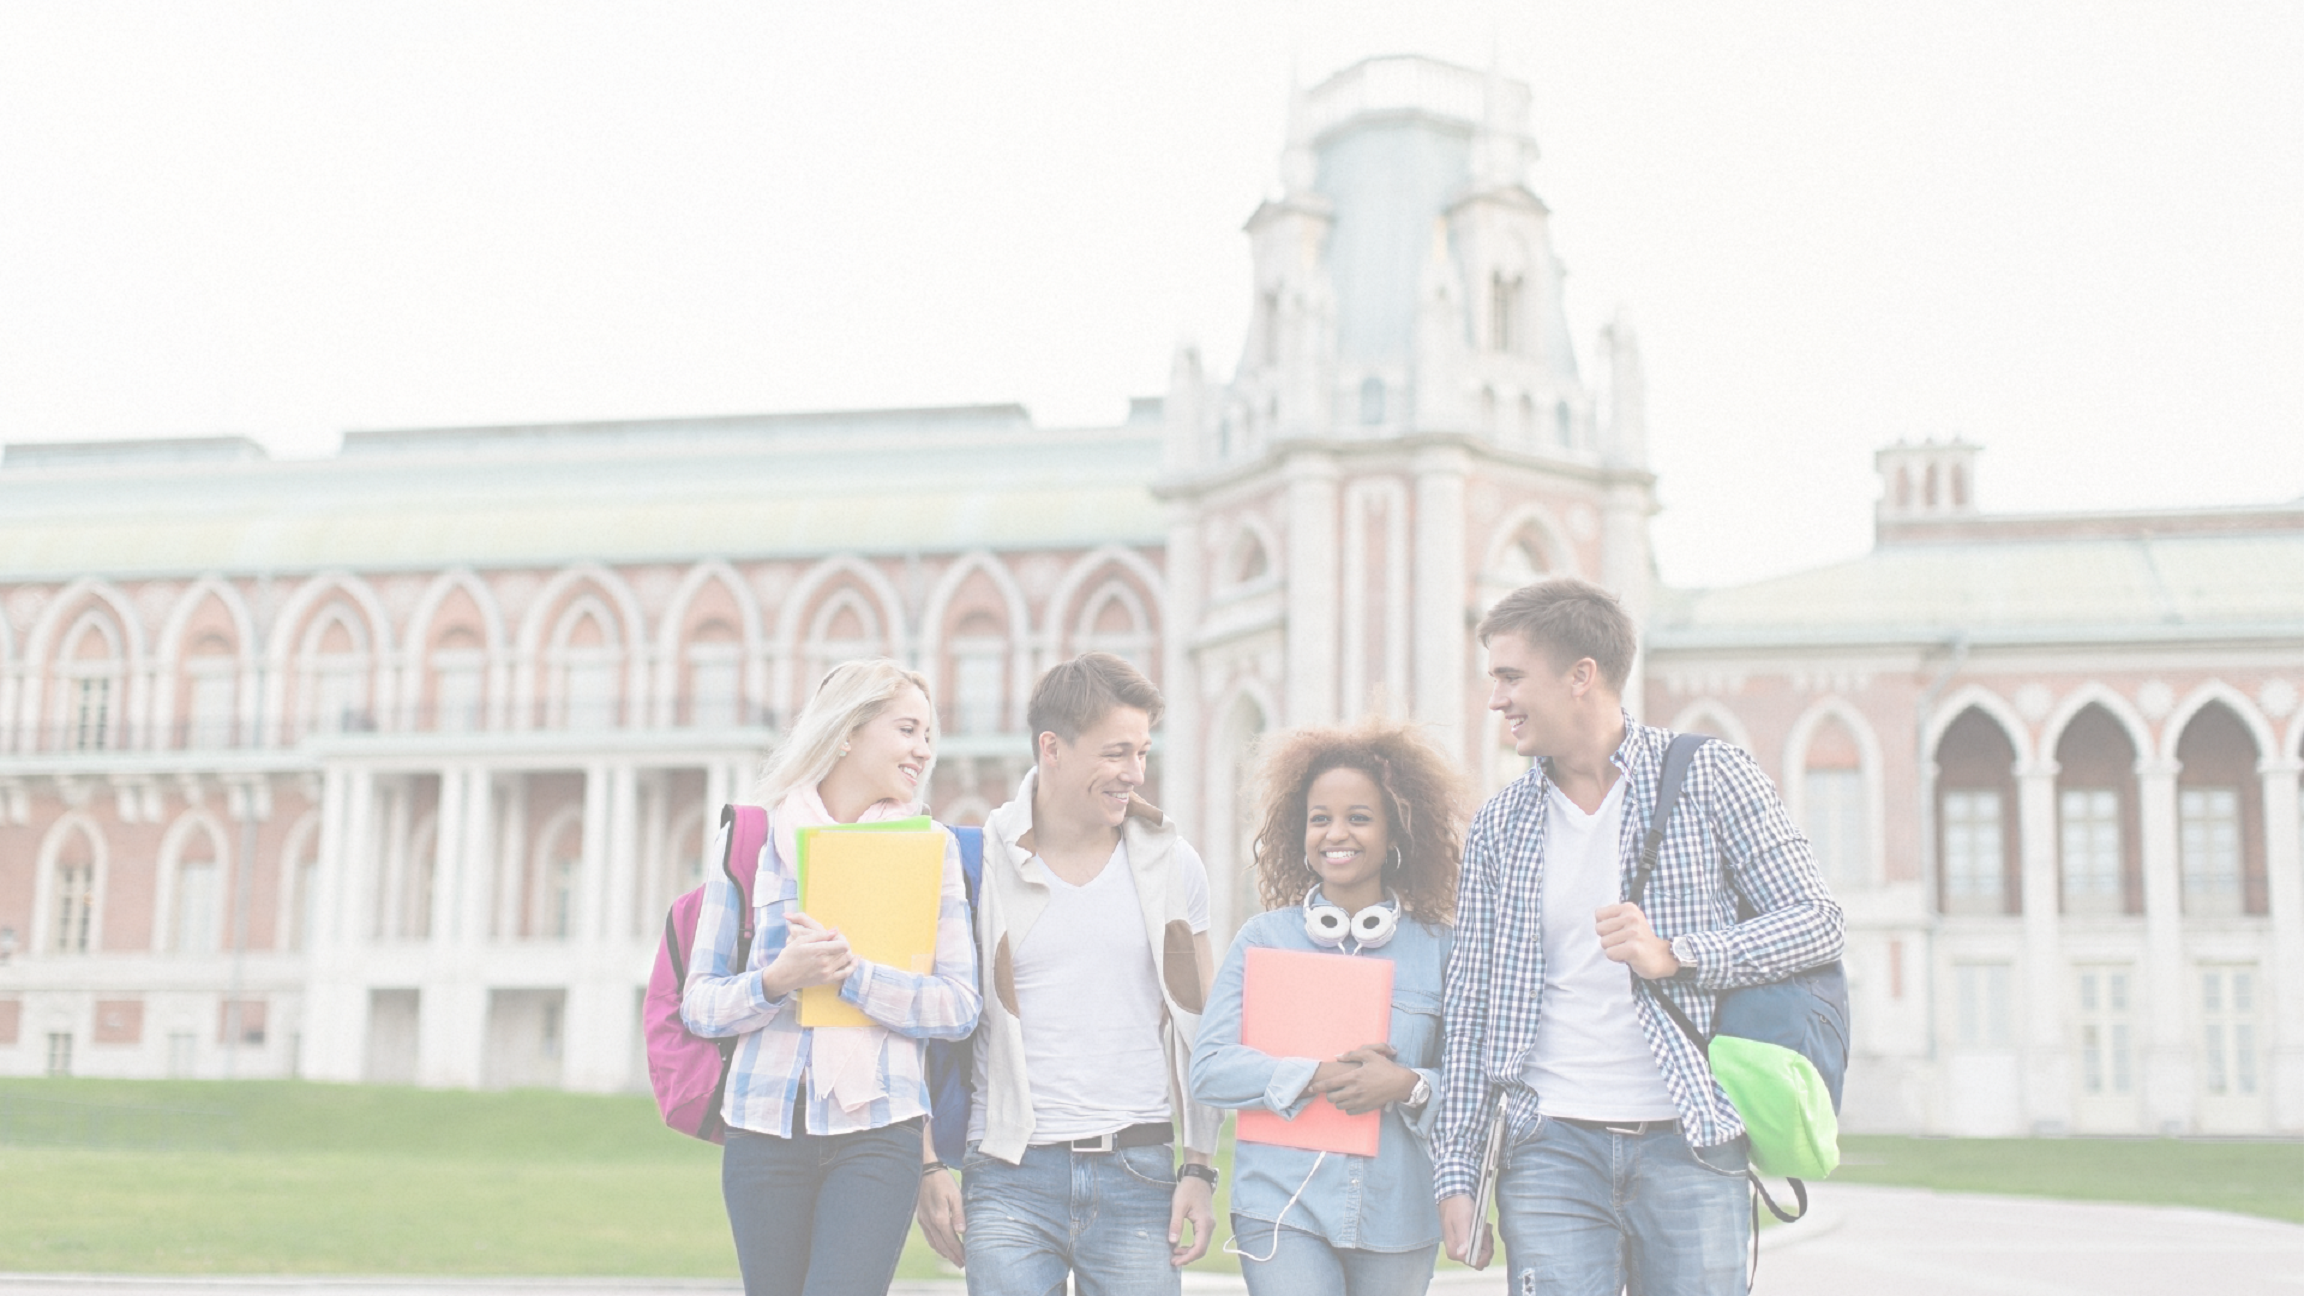
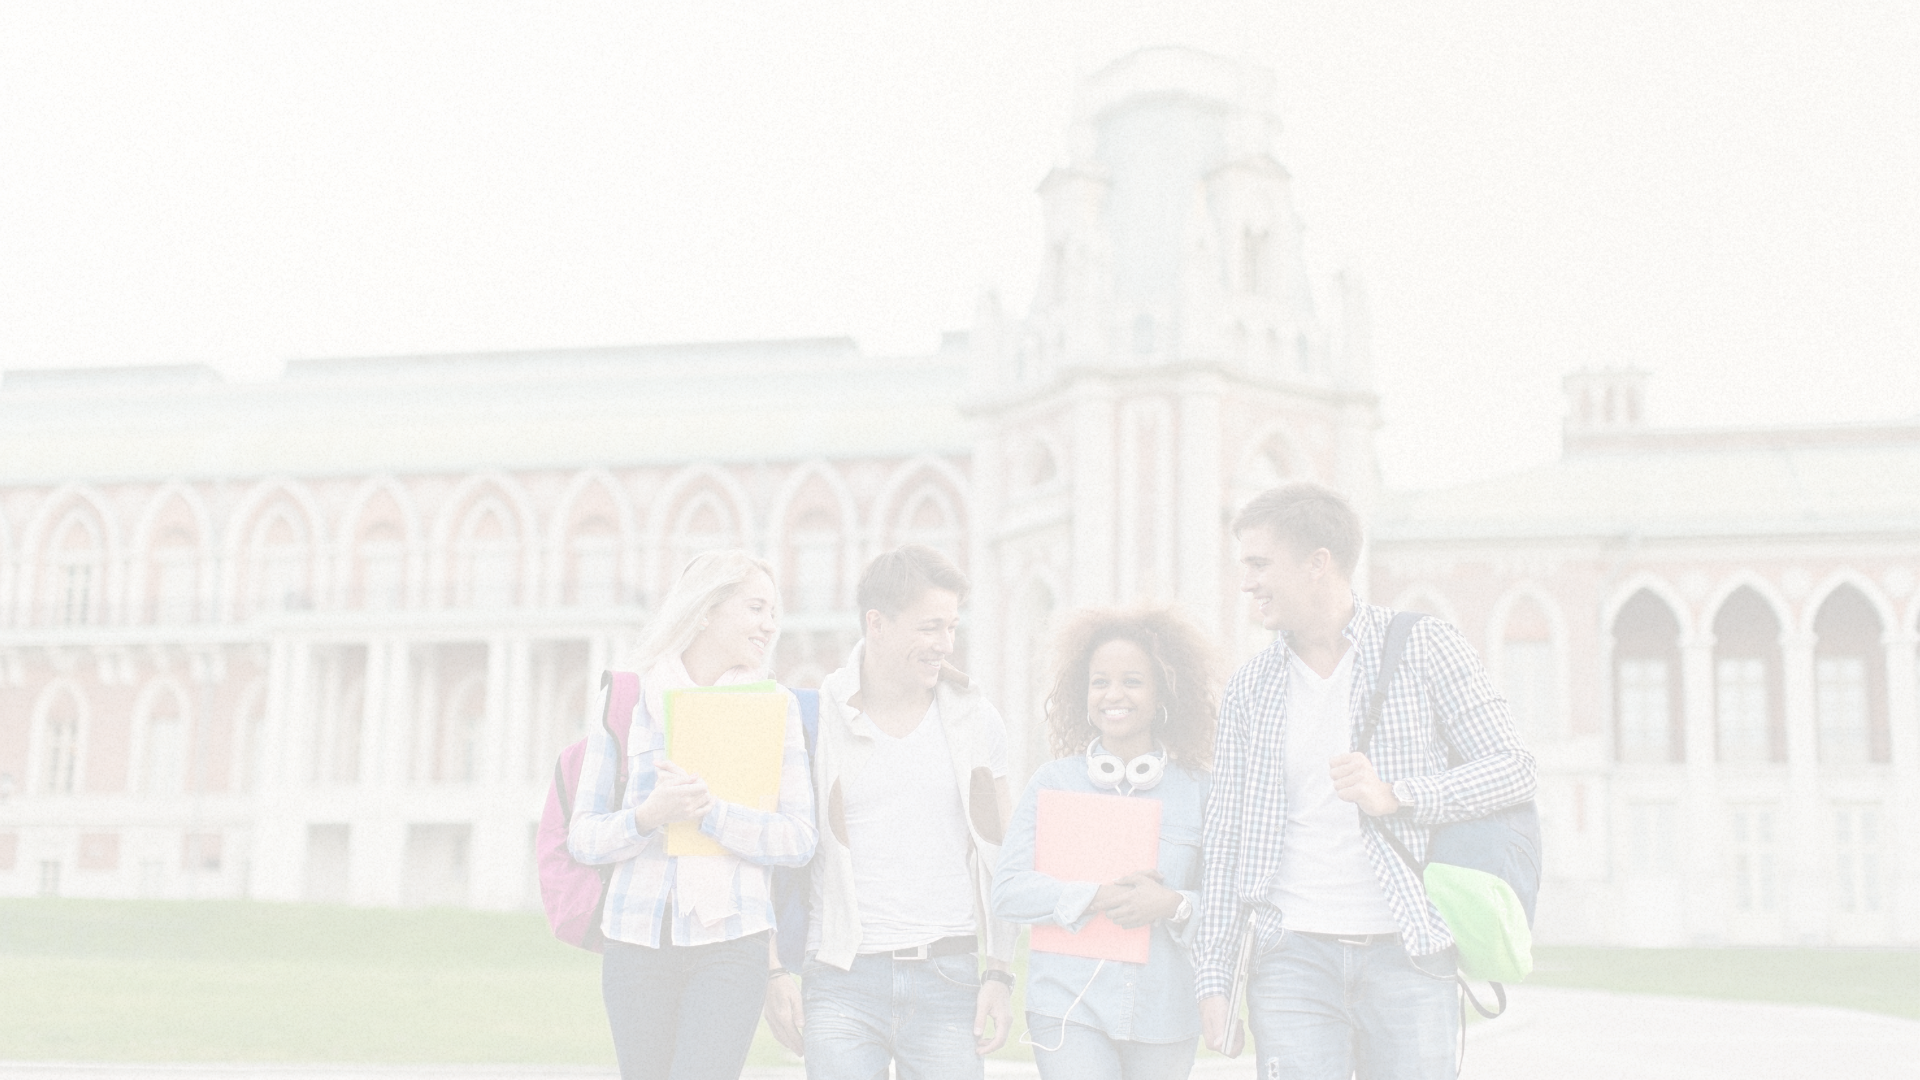
home page

diff --git a/index.html b/index.html
@@ -6,6 +6,7 @@
     <meta name="viewport" content="width=device-width, initial-scale=1.0">
     <link rel= stylesheet href= "css/style.css">
     <link href="https://fonts.googleapis.com/css2?family=Oswald&display=swap" rel="stylesheet">
+    <link rel="stylesheet" href="https://cdnjs.cloudflare.com/ajax/libs/font-awesome/6.0.0/css/all.min.css">
     <title>UNICLUBS</title>
 </head>
 
@@ -30,16 +31,25 @@
         <div class="inner_anasayfa">
             <div class="container_logo">
                 <img src="images/logo.png" alt="anasayfa">
+                <div class="socials">
+                    <i class="fa-brands fa-instagram" style="color: #000000;"></i>
+                    <i class="fa-brands fa-linkedin" style="color: #000000;"></i>
+                    <i class="fa-solid fa-envelope" style="color: #000000;"></i>
+        
+                </div>
+                
             </div>
+            
             <div class="child_anasayfa">
                 <h1>Kampüs Kulüpleri İçin Dijital Merkez</h1> 
                 <p> Üniversite kulüp yönetmeliğini dijitalize ederek hem öğrencilerin hem yöneticilerin işini kolaylaştırıyoruz. Aynı zamanda kulüpler için bir sosyal medya sağlayarak 
                 global çapta etkileşime ve işbirliğine katkıda bulunuyoruz. Global ağımıza siz de katılın! </p>
-                <a href="app.html"> ÜRÜNÜMÜZÜ İNCELE </a>
+                
             </div>
         </div>
-    
-    
+
+       
+            
    
 </body>
 

diff --git a/css/style.css b/css/style.css
@@ -12,9 +12,10 @@ html{
 
 body{
     font-family: 'Montserrat', sans-serif;
-    background-image: url(../images/arkaplan.png); 
+    background-image: url(../images/arkaplan.png);
     background-repeat: no-repeat;
-    background-position: center;
+    background-attachment: fixed;
+    background-size: cover;
     
 }
 
@@ -126,7 +127,7 @@ header{
 
 .inner_anasayfa h1{
     font-size: 40px;
-    color: rgb(0, 0, 0);
+    color: rgb(6, 3, 58);
     font-weight: bold;
     margin-bottom: 20px;
     text-align: center;
@@ -143,7 +144,7 @@ header{
     margin-bottom: 20px;
     margin-top: 50px;
     text-align: center;
-    line-height: 180%;
+    
     background: transparent;
     letter-spacing: normal;
     text-shadow: 0 0 0.2em rgb(175, 175, 175);
@@ -156,8 +157,17 @@ header{
     height: 35%;
     margin-top: 5%;
     margin-right: 10%;
+    display: flex;
    
 }
 
+.socials{
+    display: flex;
+    column-gap: 2rem;
+    margin: 1rem 0;
+    font-size: 1.8rem;
+    margin-top: 70%;
+    margin-left: 10%;
+}
  
 
